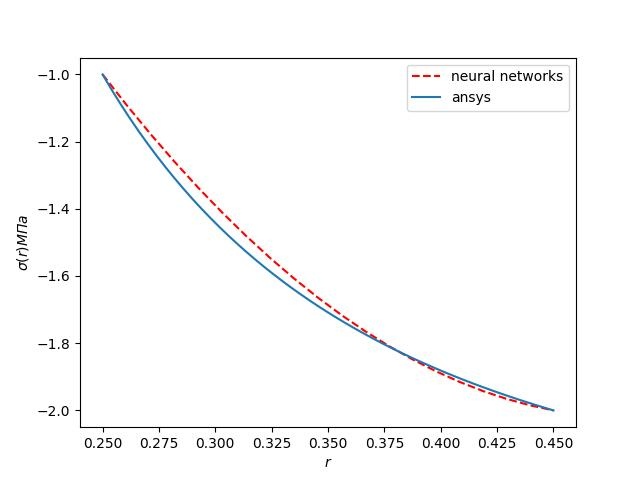
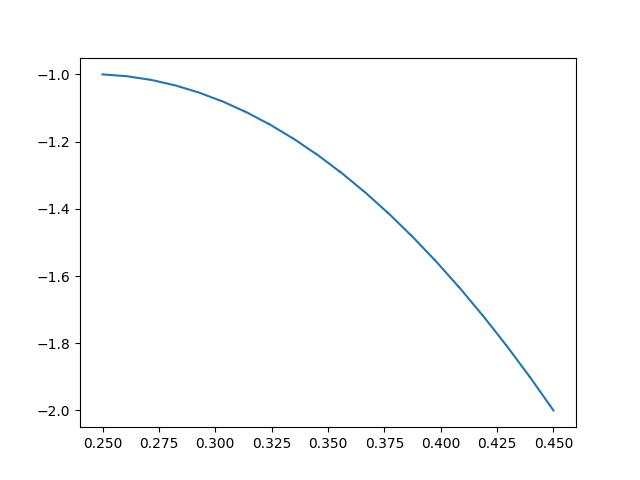
Add files via upload

diff --git a/Lame_u.py b/Lame_u.py
@@ -1,0 +1,209 @@
+## let's import the relevant libraries
+import torch
+import torch.nn as nn
+from time import perf_counter
+from PIL import Image
+import matplotlib.pyplot as plt
+from functools import partial
+import numpy as np
+import requests
+import os
+# данные для задачи
+
+"""parametrs"""
+nu = 0.3 # коэфициент пуасонна
+a = 0.25 # внутренний радиус
+b = 0.45 # внешний радиус
+pi = -1 # внутреннее давление
+p0 = -2 # внешнее давление
+E = 2e11 # модуль Юнга
+lam = nu*E/((1+nu)*(1-2*nu)) # коэфиициент Лямэ
+mu = E/2*(1+nu) # коэфиициент Лямэ
+device = torch.device("cpu")
+a = 0.25
+b = 0.45
+phi_0 = 0
+phi_1 = np.pi/2
+num_1 = 20
+num_2 = 40
+size = 6
+
+""" functions"""
+def grad(outputs, inputs):
+    '''функция которая берет производная'''
+    return torch.autograd.grad(outputs, inputs, grad_outputs=torch.ones_like(outputs), create_graph=True)[0]
+
+
+def sig(x, x_i, x_0, pi, p0, network1, network2, scale_network_out):
+    ''' 2d область для перемещений'''
+    coef_1 = (p0-pi)/(x_0-x_i)
+    coef_2 = -((p0-pi)/(x_0-x_i)*x_0) + p0
+    sig_rho = coef_2 + x[:, 0][:,None]*coef_1 + (x[:, 0][:, None] - x_i)*(x[:, 0][:, None] - x_0)*network1(x)/scale_network_out
+    sig_phi = network2(x)/scale_network_out
+    sig = torch.cat((sig_rho, sig_phi), dim=1)
+    return sig
+
+
+def loss(X, sig):
+
+    X.requires_grad = True
+    sig = sig(X)
+    g_sig_rho = grad(sig[:, 0], X)
+    g_sig_rho_2 = grad(g_sig_rho[:, 0], X)
+    loss = g_sig_rho_2[:, 0] + g_sig_rho[:, 0]/X[:,0] - sig[:, 0]/X[:,0]**2
+    return torch.mean(loss)
+
+
+def train_MultiFieldFracture_seperate_net(net1, net2, batch_size_X, max_iter,
+                                          print_results_every, scale_network_out, x_0, x_i, num_y):
+
+    print('\n\nStarting training loop with seperate networks for sig_rho and sig_phi...\n\n')
+    print( '\t\tbatch_size_X: %d' % batch_size_X,
+          '\t\tmax_iter: %d\n' % max_iter)
+    network1 = net1
+    network1 = network1.to(device)
+    network2 = net2
+    network2 = network2.to(device)
+
+    parameters = list(network1.parameters()) + list(network2.parameters()) #the parameters to optimze
+    optimizer = torch.optim.Adam(parameters, lr=1e-5)  # lr is the learning rate
+
+    # Records time the loop starts
+    start_time = perf_counter()
+    loss_list = []
+    elapsed_time = 0.0
+    running_loss = 0.0
+    #max_iter= 125*num_y
+    for i in range(max_iter):
+        X1 = torch.distributions.Uniform(x_i, x_0).sample((batch_size_X, 1))
+        #X1 = torch.linspace(x_i, x_0, batch_size_X)[:,None]
+        # X2 = torch.tensor(batch_size_X * [(i % 125) * np.pi / (2 * num_y)])[:, None]
+        X2 = torch.distributions.Uniform(0, np.pi/2).sample((batch_size_X, 1))
+        X = torch.cat((X1, X2), dim=1)
+        X = X.to(device)
+        optimizer.zero_grad()
+        l = loss(X,
+                 partial(sig, x_i = a, x_0 = b, pi = pi, p0 = p0, network1=network1, network2=network2, scale_network_out=scale_network_out))
+        running_loss += l.item()
+        l.backward()
+        optimizer.step()
+        if (i + 1) % print_results_every == 0:
+            # Print loss, time elapsed every "print_results_every"# iterations
+            current_time = perf_counter()
+            elapsed_time = current_time - start_time
+            print('[iter: %d]' % (i + 1), '\t\telapsed_time: %3d secs' % elapsed_time, '\t\tLoss: ',
+                  running_loss / print_results_every)
+            loss_list.append(running_loss / print_results_every)
+            running_loss = 0.0
+
+    return loss_list, network1, network2
+
+def model_capacity(net):
+    """
+    Prints the number of parameters and the number of layers in the network
+    -> Requires a neural network as input
+    """
+    number_of_learnable_params = sum(p.numel() for p in net.parameters() if p.requires_grad)
+    num_layers = len(list(net.parameters()))
+    print("\nThe number of layers in the model: %d" % num_layers)
+    print("The number of learnable parameters in the model: %d\n" % number_of_learnable_params)
+
+
+# def plot_loss(loss, label):
+#     """
+#     Plots the loss function.
+#     -> loss: list containing the losses
+#     -> label: label for this loss
+#     """
+#     ax.plot(100 * np.arange(len(loss)), loss, label='%s' % label)
+#     ax.set_xlabel('Iterations')
+#     ax.set_ylabel('Loss')
+#     plt.legend(loc='best')
+
+
+def plot_displacement(network1, network2, scale_network_out, num_r, num_phi, s=20):
+    """
+    Plots the horizontal and vertical components of displacements at given number of points.
+    -> network1: neural network 1
+    -> network2: neural network 2
+    -> num_x: number of grid points to r coordinate
+    -> num_x: number of grid points to phi coordinate
+    """
+
+    X_init = torch.linspace(0.25, 0.45, num_r)
+    Y_init = torch.linspace(0.0, np.pi/2, num_phi)
+    X_init, Y_init = torch.meshgrid(X_init, Y_init)
+    X_init = X_init.reshape(-1)[:, None]
+    Y_init = Y_init.reshape(-1)[:, None]
+    X_gl = torch.cat((X_init, Y_init), dim=1)
+    press = sig(X_gl, a, b, pi, p0, network1, network2, scale_network_out).detach().numpy()
+    fig = plt.figure()
+    ax = fig.add_subplot(projection='polar')
+    c1 = ax.scatter(X_gl[:, 1], X_gl[:, 0], s=s, c=press[:, 0],
+                        cmap='jet')
+    plt.colorbar(c1, ax=ax)
+    ax.set_title('Radian stress ($\sigma_rho$)')
+    ax.set_thetamin(0)
+    ax.set_thetamax(90)
+    ax.set_rmax(0.46)
+    plt.savefig("str_r.jpg")
+    fig1 = plt.figure()
+    ax1 = fig1.add_subplot(projection='polar')
+    c2 = ax1.scatter(X_gl[:, 1], X_gl[:, 0], s=s, c=press[:, 1],
+                        cmap='jet')
+    plt.colorbar(c2, ax=ax1)
+    ax1.set_title('Radian stress ($\sigma_\phi$)')
+    ax1.set_thetamin(0)
+    ax1.set_thetamax(90)
+    ax1.set_rmax(0.46)
+    plt.savefig("str_shr.jpg")
+    fig2 = plt.figure()
+    ax2 = fig2.add_subplot()
+    ax2.plot(X_gl[0:-1:num_r, 0], press[0:-1:num_r, 0])
+    plt.savefig("sig_r.jpg")
+    """
+    Scale down the network output to ensure we get +ve determinant of the Jacobian.
+    We have to scale the output so that as the training begins we don't initialize a displacement
+    which has no physical meaning.0
+    For example, the determinant of the Jacobian cannot be negative
+    since that would mean negative volume; which has no physical meaning.
+    """
+
+scale_network_out = 0.1
+
+
+# here is the network for the sig_rho
+simple_net1 = nn.Sequential(nn.Linear(2,50),
+                     nn.Sigmoid(),
+                     nn.Linear(50,50),
+                     nn.Sigmoid(),
+                     nn.Linear(50,50),
+                     nn.Sigmoid(),
+                     nn.Linear(50,1)
+                    )
+
+# here is the network for the sig_phi
+simple_net2 = nn.Sequential(nn.Linear(2,50),
+                     nn.Sigmoid(),
+                     nn.Linear(50,50),
+                     nn.Sigmoid(),
+                     nn.Linear(50, 50),
+                     nn.Sigmoid(),
+                     nn.Linear(50,1)
+                    )
+
+# here is how we can find the number of layers and number of model parameters in each network
+model_capacity(simple_net1)
+model_capacity(simple_net2)
+
+loss_list_simple_net, simple_net1, simple_net2 = train_MultiFieldFracture_seperate_net(net1=simple_net1, net2=simple_net2,
+                                                                      batch_size_X = num_1,
+                                                                      max_iter = 5000,
+                                                                      print_results_every = 100, scale_network_out=scale_network_out, x_0= b, x_i = a, num_y=num_2)
+# Let's visualize the training loss
+# figure, ax = plt.subplots(dpi=100)
+# plot_loss(loss_list_simple_net, 'Simple Net')
+# ax.plot(100*np.arange(len(loss_list_simple_net)), 0.006*np.ones(len(loss_list_simple_net)), label='FEM Energy')
+
+plot_displacement(simple_net1, simple_net2, scale_network_out,
+                  num_1, num_2)
